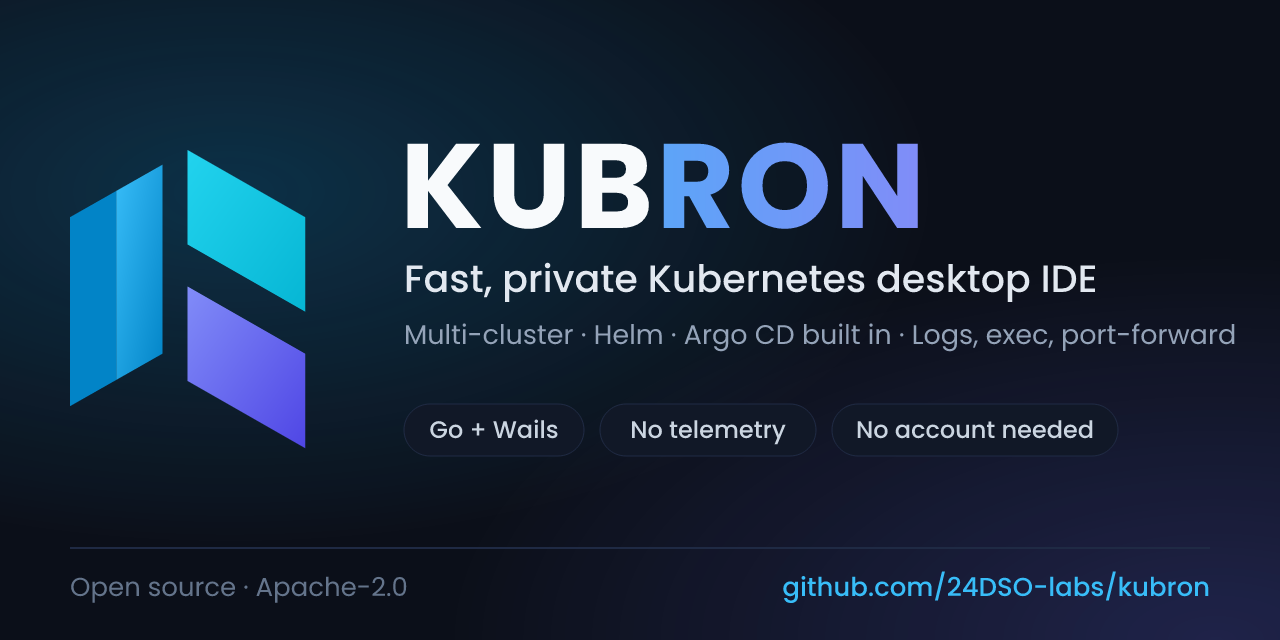
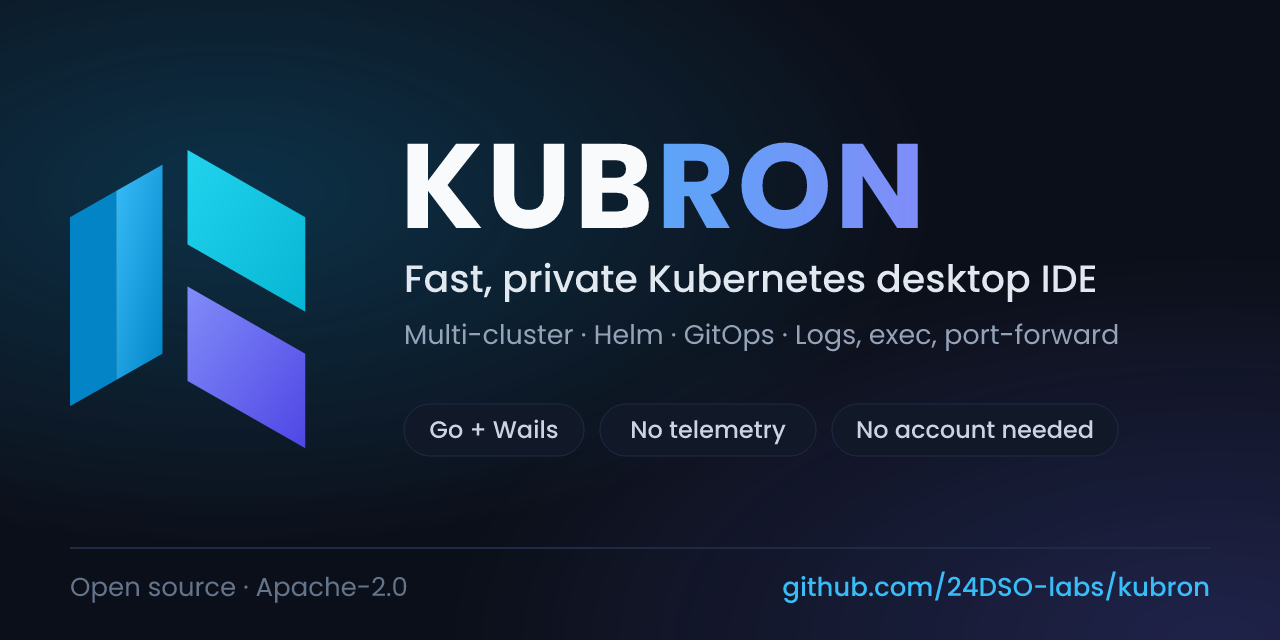
docs(readme): make the README tool-neutral and drop paid wording
SSO/OIDC will be free, and more GitOps tools are planned, so the README
should not promise a paid tier or tie the project to specific products.

- Remove the comparison table with other products; replace it with a short
  "Why Kubron" list that only describes Kubron.
- Describe the GitOps integration without naming a tool (feature section,
  screenshots, documentation links, roadmap); add a roadmap item for more
  GitOps tools. The screenshot file is renamed to gitops-applications.png.
- Drop implementation details that name products (editor component, metrics
  stack components).
- Remove the paid-features paragraph and the "commercial add-on" note.
- Update the social preview image accordingly (docs/images/social-preview.*);
  upload it again in Settings -> Social preview.

Author: Vadim <vmilyash@mts.ru>

Changed region(s): [[0.5312, 0.5, 0.9688, 0.5625]]

diff --git a/README.md b/README.md
@@ -18,14 +18,14 @@
 
 </div>
 
-Kubron is a lightweight, open-source Kubernetes desktop IDE built with **Go** and **Wails**: a fast, private alternative to Lens with **Argo CD built in**. No telemetry, no mandatory account, your kubeconfig never leaves your machine.
+Kubron is a lightweight, open-source Kubernetes desktop IDE built with **Go** and **Wails**: fast and private, with Helm and GitOps tooling built in. No telemetry, no mandatory account, your kubeconfig never leaves your machine.
 
 <p align="center">
   <img src="docs/images/screenshots/overview.png" alt="Kubron cluster overview: node and pod counts, CPU and memory usage, pods closest to their limits, workloads, recent changes, blockers and certificate expiry" width="100%">
 </p>
 
 <details>
-<summary><b>More screenshots</b>: pods, YAML editor, Argo CD</summary>
+<summary><b>More screenshots</b>: pods, YAML editor, GitOps</summary>
 
 <br>
 
@@ -37,22 +37,19 @@ Kubron is a lightweight, open-source Kubernetes desktop IDE built with **Go** an
 
 <img src="docs/images/screenshots/yaml-editor.png" alt="Kubron YAML editor with a pod manifest, Reload and Review & Save buttons" width="100%">
 
-**Argo CD**: applications with sync and health status, revision, destination and last sync.
+**GitOps**: applications with sync and health status, revision, destination and last sync.
 
-<img src="docs/images/screenshots/argocd-applications.png" alt="Kubron Argo CD applications list with sync and health status" width="100%">
+<img src="docs/images/screenshots/gitops-applications.png" alt="Kubron GitOps applications list with sync and health status" width="100%">
 
 </details>
 
 ## Why Kubron
 
-| | Kubron | Lens | k9s |
-|---|---|---|---|
-| UI | Desktop + web (WIP) | Desktop | Terminal |
-| Built with | Go + Wails (native webview) | Electron | Go TUI |
-| Argo CD support | Built in | Paid extension | Via plugins |
-| Account required | No | Yes | No |
-| Telemetry | None | Yes | None |
-| License | Apache-2.0 | Proprietary + OSS | Apache-2.0 |
+- **Lightweight and native** — written in Go with Wails: a compact desktop app that uses the system webview
+- **Private by default** — no telemetry and no mandatory account; your kubeconfig never leaves your machine
+- **Desktop and web** — the same UI as a desktop app or served over HTTP for teams (web mode is experimental)
+- **Helm and GitOps built in** — manage releases and applications without installing extra plugins
+- **Open source** — Apache-2.0, with a public `pkg/ext` API for extensions
 
 ## Features
 
@@ -76,7 +73,7 @@ Kubron is a lightweight, open-source Kubernetes desktop IDE built with **Go** an
 - **Wide resource coverage** — workloads (Pods, Deployments, StatefulSets, DaemonSets, ReplicaSets, Jobs, CronJobs), networking (Services, Endpoints, EndpointSlices, Ingresses, IngressClasses, NetworkPolicies), config (ConfigMaps, Secrets, ResourceQuotas, LimitRanges, HPA, PDB), storage (PV, PVC, StorageClasses), RBAC (Roles, ClusterRoles, bindings, ServiceAccounts), webhooks, leases, priority and runtime classes
 - **Custom resources** — CRDs are discovered automatically and shown with their `additionalPrinterColumns`, like `kubectl get`
 - **Detail panels** — conditions, events, owners, containers, volumes, affinity, tolerations and more, one click away
-- **YAML editor** — Monaco-based view/edit with diff; apply changes or create new objects from a manifest
+- **YAML editor** — view/edit with diff; apply changes or create new objects from a manifest
 - **Bulk actions** — act on many objects at once; one failure doesn't stop the rest
 - **Keyboard shortcuts** — `Alt+P/D/N/E/S` to jump to Pods, Deployments, Nodes, Events and Settings
 
@@ -84,7 +81,7 @@ Kubron is a lightweight, open-source Kubernetes desktop IDE built with **Go** an
 - **Pod tools** — live logs, terminal (exec) in containers, port forwarding to pods and services, eviction
 - **Deployments** — scale, restart, view revision history and roll back
 - **Nodes** — cordon/uncordon, drain, and open a shell on a node
-- **Metrics** — one-click optional metrics stack (Prometheus, kube-state-metrics, node-exporter) with charts for pods, workloads, nodes, PVCs and ingresses
+- **Metrics** — one-click optional metrics stack with charts for pods, workloads, nodes, PVCs and ingresses
 
 ### Helm
 - **Releases** — list, inspect values/manifest/notes, view history, diff revisions, roll back, uninstall
@@ -92,11 +89,11 @@ Kubron is a lightweight, open-source Kubernetes desktop IDE built with **Go** an
 - **Install & upgrade** — dry-run preview before installing; upgrade a release to another chart version (pick the repository and version, carry over or edit values, review the manifest diff first) or change only its values
 - **Update hints** — see which installed releases have a newer chart available
 
-### Argo CD
-- **Built in, no extra install** — applications, ApplicationSets and projects with sync and health status in the UI
+### GitOps
+- **Built in, no extra install** — applications, application sets and projects with sync and health status in the UI
 - **Actions** — sync (with options), refresh / hard refresh, terminate operation, roll back, suspend/resume auto-sync, delete with or without cascade
 - **Diff & graph** — live-vs-desired diff and a resource graph for each application
-- **Project access** — roles and access of Argo CD projects
+- **Project access** — roles and access of projects
 
 ### Security & access control
 - **Local users & roles** — `admin`, `operator` and `user` roles built on fine-grained permissions (read, secrets, operate, write, exec, port-forward, cluster and user management, audit)
@@ -145,7 +142,7 @@ On Linux add `-tags webkit2_41` to `wails dev` / `wails build` (WebKitGTK 4.1, a
 
 ## Documentation
 
-- **User guides** (PDF): Helm — [English](docs/DOCS/EN/Kubron-Helm-User-Guide-EN.pdf), [Русский](docs/DOCS/RU/Kubron-Helm-User-Guide.pdf); Argo CD — [English](docs/DOCS/EN/Kubron-ArgoCD-User-Guide-EN.pdf), [Русский](docs/DOCS/RU/Kubron-ArgoCD-User-Guide.pdf)
+- **User guides** (PDF): Helm — [English](docs/DOCS/EN/Kubron-Helm-User-Guide-EN.pdf), [Русский](docs/DOCS/RU/Kubron-Helm-User-Guide.pdf); GitOps — [English](docs/DOCS/EN/Kubron-ArgoCD-User-Guide-EN.pdf), [Русский](docs/DOCS/RU/Kubron-ArgoCD-User-Guide.pdf)
 - **Server deployment** — [docs/deploy.md](docs/deploy.md) (Russian)
 - **Localization** — [docs/i18n.md](docs/i18n.md), [ADR-0014](docs/adr/0014-i18n.md)
 - **Architecture decisions** — [docs/adr](docs/adr)
@@ -153,7 +150,7 @@ On Linux add `-tags webkit2_41` to `wails dev` / `wails build` (WebKitGTK 4.1, a
 
 ## Server mode (experimental)
 
-Besides the desktop app, Kubron ships `kubron-server`: the same UI served over HTTP for teams. It stores users, clusters and the audit log in **PostgreSQL 14+**, encrypts kubeconfigs and Argo CD tokens at rest (`KUBRON_SECRET_KEY`) and is meant to run behind a TLS-terminating reverse proxy.
+Besides the desktop app, Kubron ships `kubron-server`: the same UI served over HTTP for teams. It stores users, clusters and the audit log in **PostgreSQL 14+**, encrypts kubeconfigs and GitOps integration tokens at rest (`KUBRON_SECRET_KEY`) and is meant to run behind a TLS-terminating reverse proxy.
 
 The container image and the Helm chart ([`deploy/helm/kubron`](deploy/helm/kubron)) are built from this repository; publishing them to a registry is still on the [roadmap](#roadmap), so build the image yourself:
 
@@ -178,21 +175,20 @@ go run ./cmd/kubron-server --listen 127.0.0.1:8080
 
 - [x] Desktop app (Wails + Go + Vue) with local auth and audit log
 - [x] Helm releases management
-- [x] Argo CD integration
+- [x] GitOps applications management
+- [ ] Support for more GitOps tools
 - [ ] Web mode with multi-user support and session auth — *in progress, experimental (Docker image and Helm chart are available)*
 - [ ] High availability for the server (more than one replica)
 - [ ] Shared, persistent Helm catalog in server mode
 - [ ] Publish the container image and Helm chart to a registry
 - [ ] Code-signed Windows and macOS builds
-- [ ] SSO/OIDC (planned as a commercial add-on)
+- [ ] SSO/OIDC login for organizations
 
 Have an idea? Open a [feature request](https://github.com/24DSO-labs/kubron/issues/new/choose).
 
 ## License
 
-The Kubron core is open source under [Apache-2.0](LICENSE).
-
-Paid subscription features are planned. The first one — **SSO/OIDC login for organizations** — will ship as a separate commercial module. The open core will always include local users, roles, audit log and emergency admin access.
+Kubron is open source under [Apache-2.0](LICENSE). Local users, roles, the audit log and emergency admin access are part of the core.
 
 ## Contributing
 

diff --git a/CHANGELOG.md b/CHANGELOG.md
@@ -21,8 +21,10 @@ and this project adheres to [Semantic Versioning](https://semver.org/spec/v2.0.0
 ### Changed
 
 - **Docs:** refreshed README (logo, badges, `.deb` download, links to the user guides, server mode section,
-  roadmap with statuses, screenshots of the overview, pods, YAML editor and Argo CD); fixed the local
+  roadmap with statuses, screenshots of the overview, pods, YAML editor and GitOps); fixed the local
   web-server build steps. Added a social preview image (`docs/images/social-preview.png`).
+- **Docs:** README no longer names third-party products or describes paid features; the GitOps wording is
+  tool-neutral and the comparison table was replaced with a short "Why Kubron" list.
 - **Deploy:** the Helm chart now defaults to `image.repository: ghcr.io/24dso-labs/kubron` (it still pointed
   to the previous account).
 
